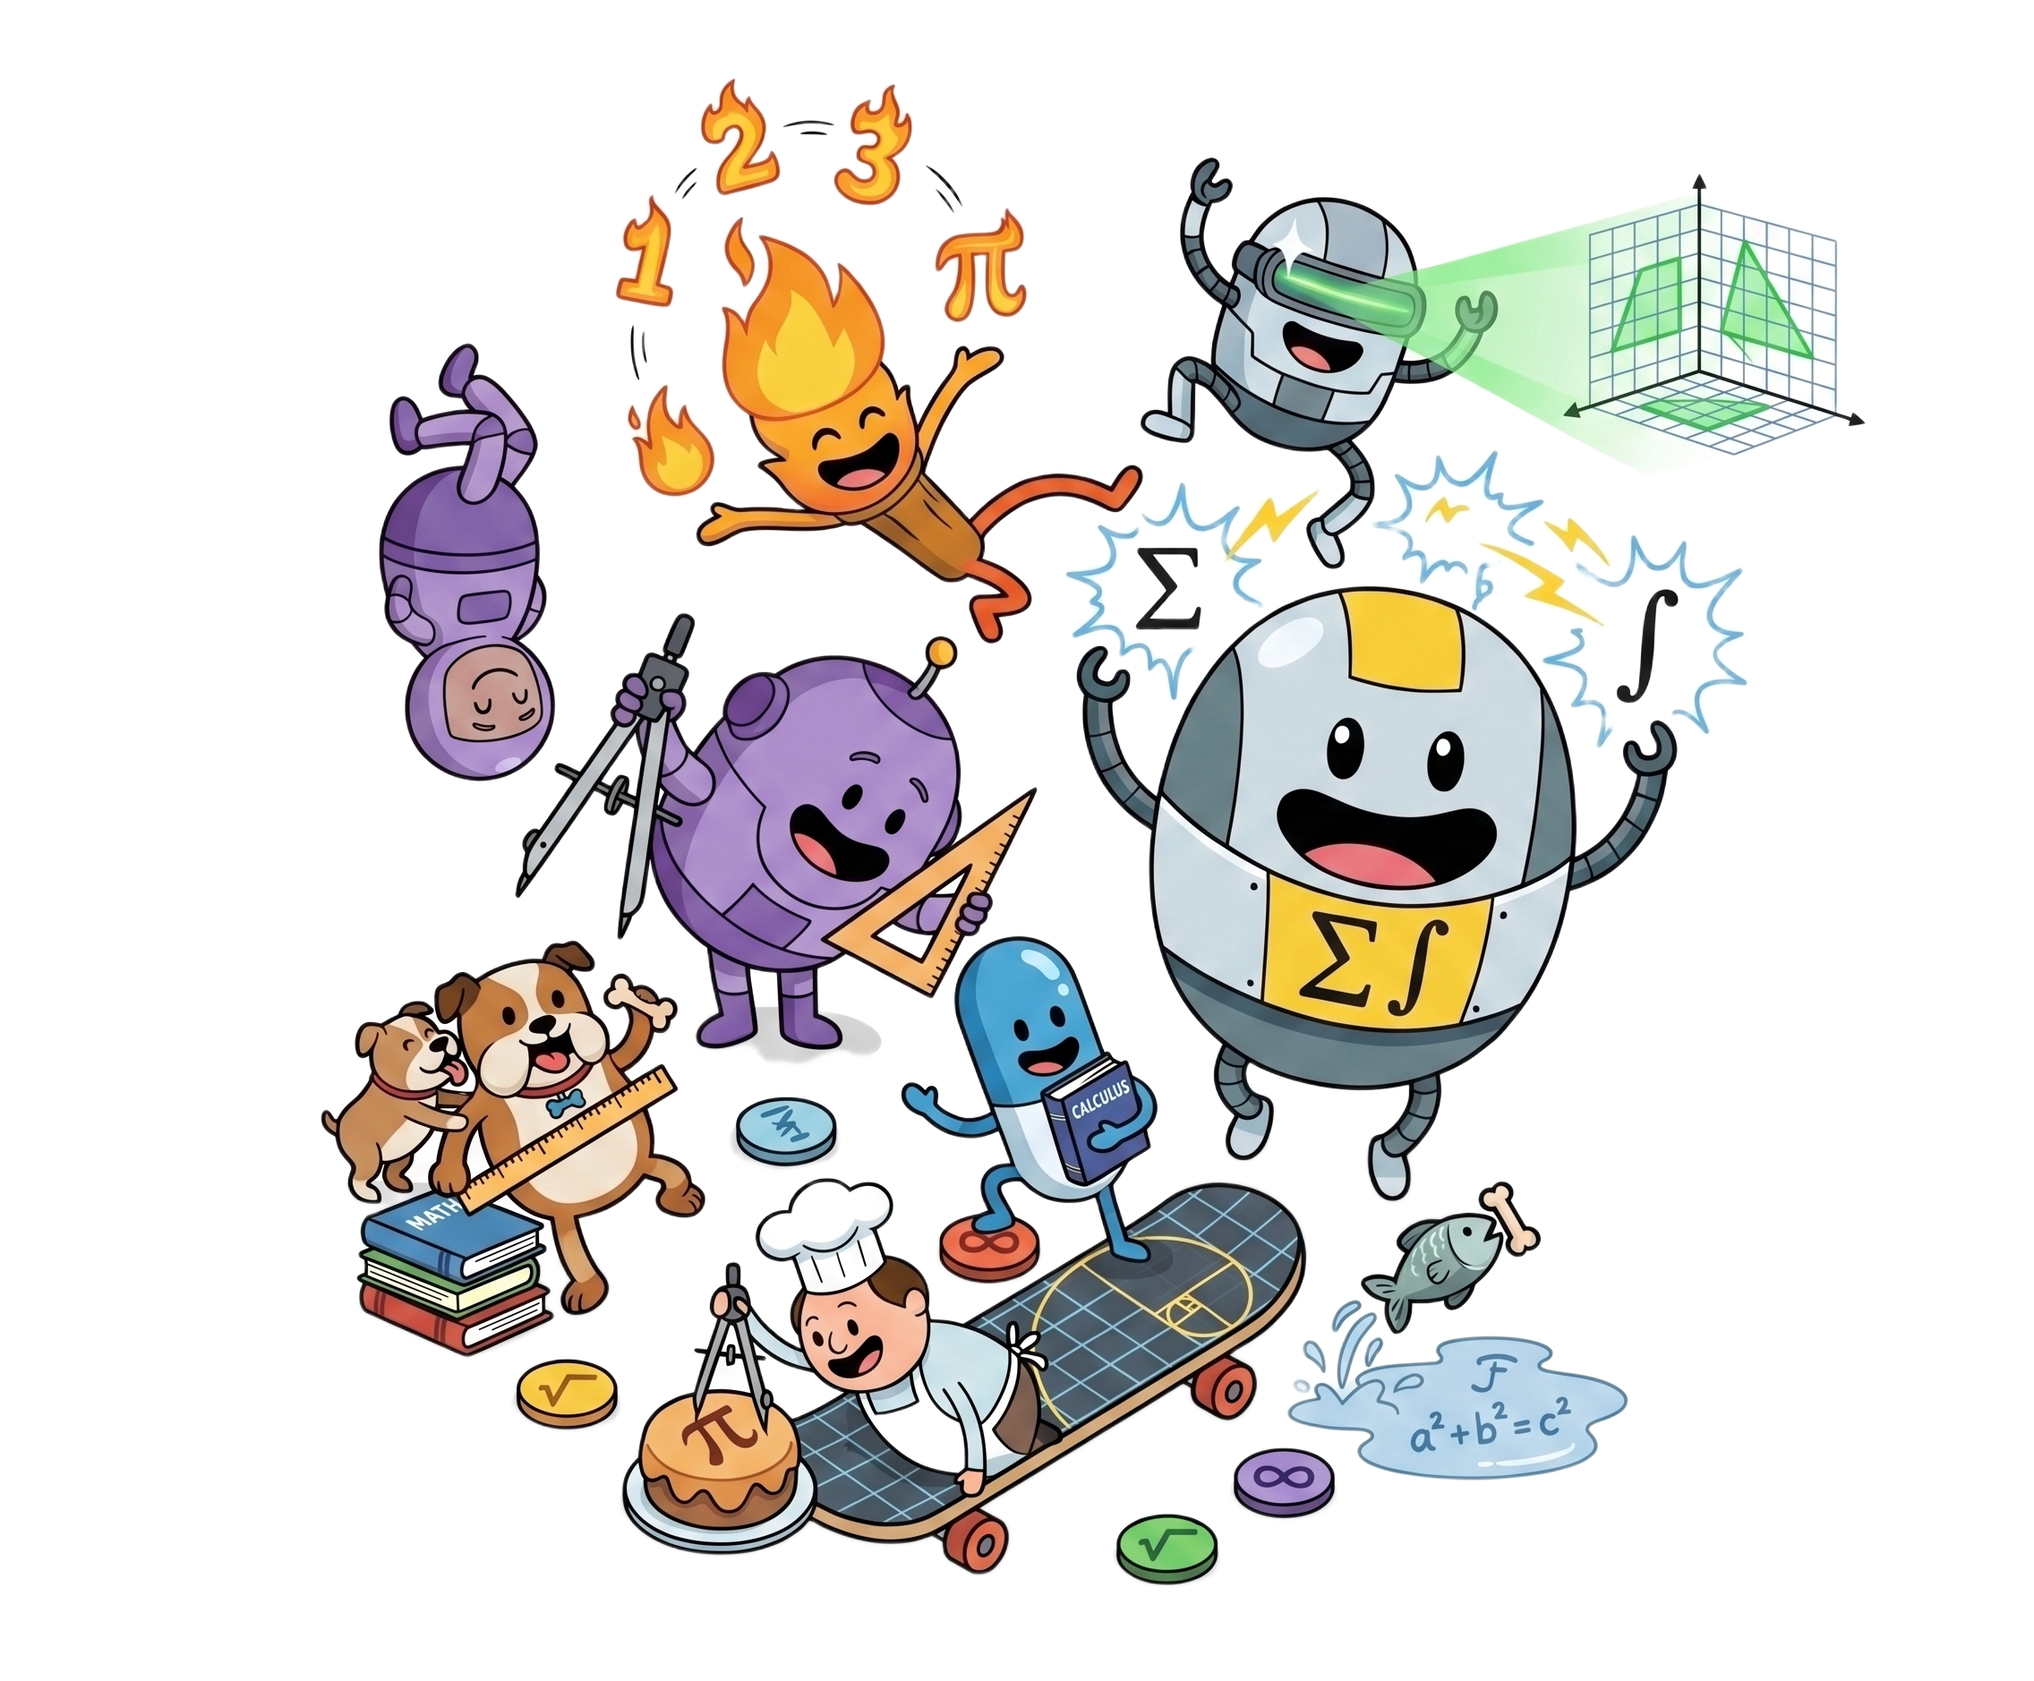
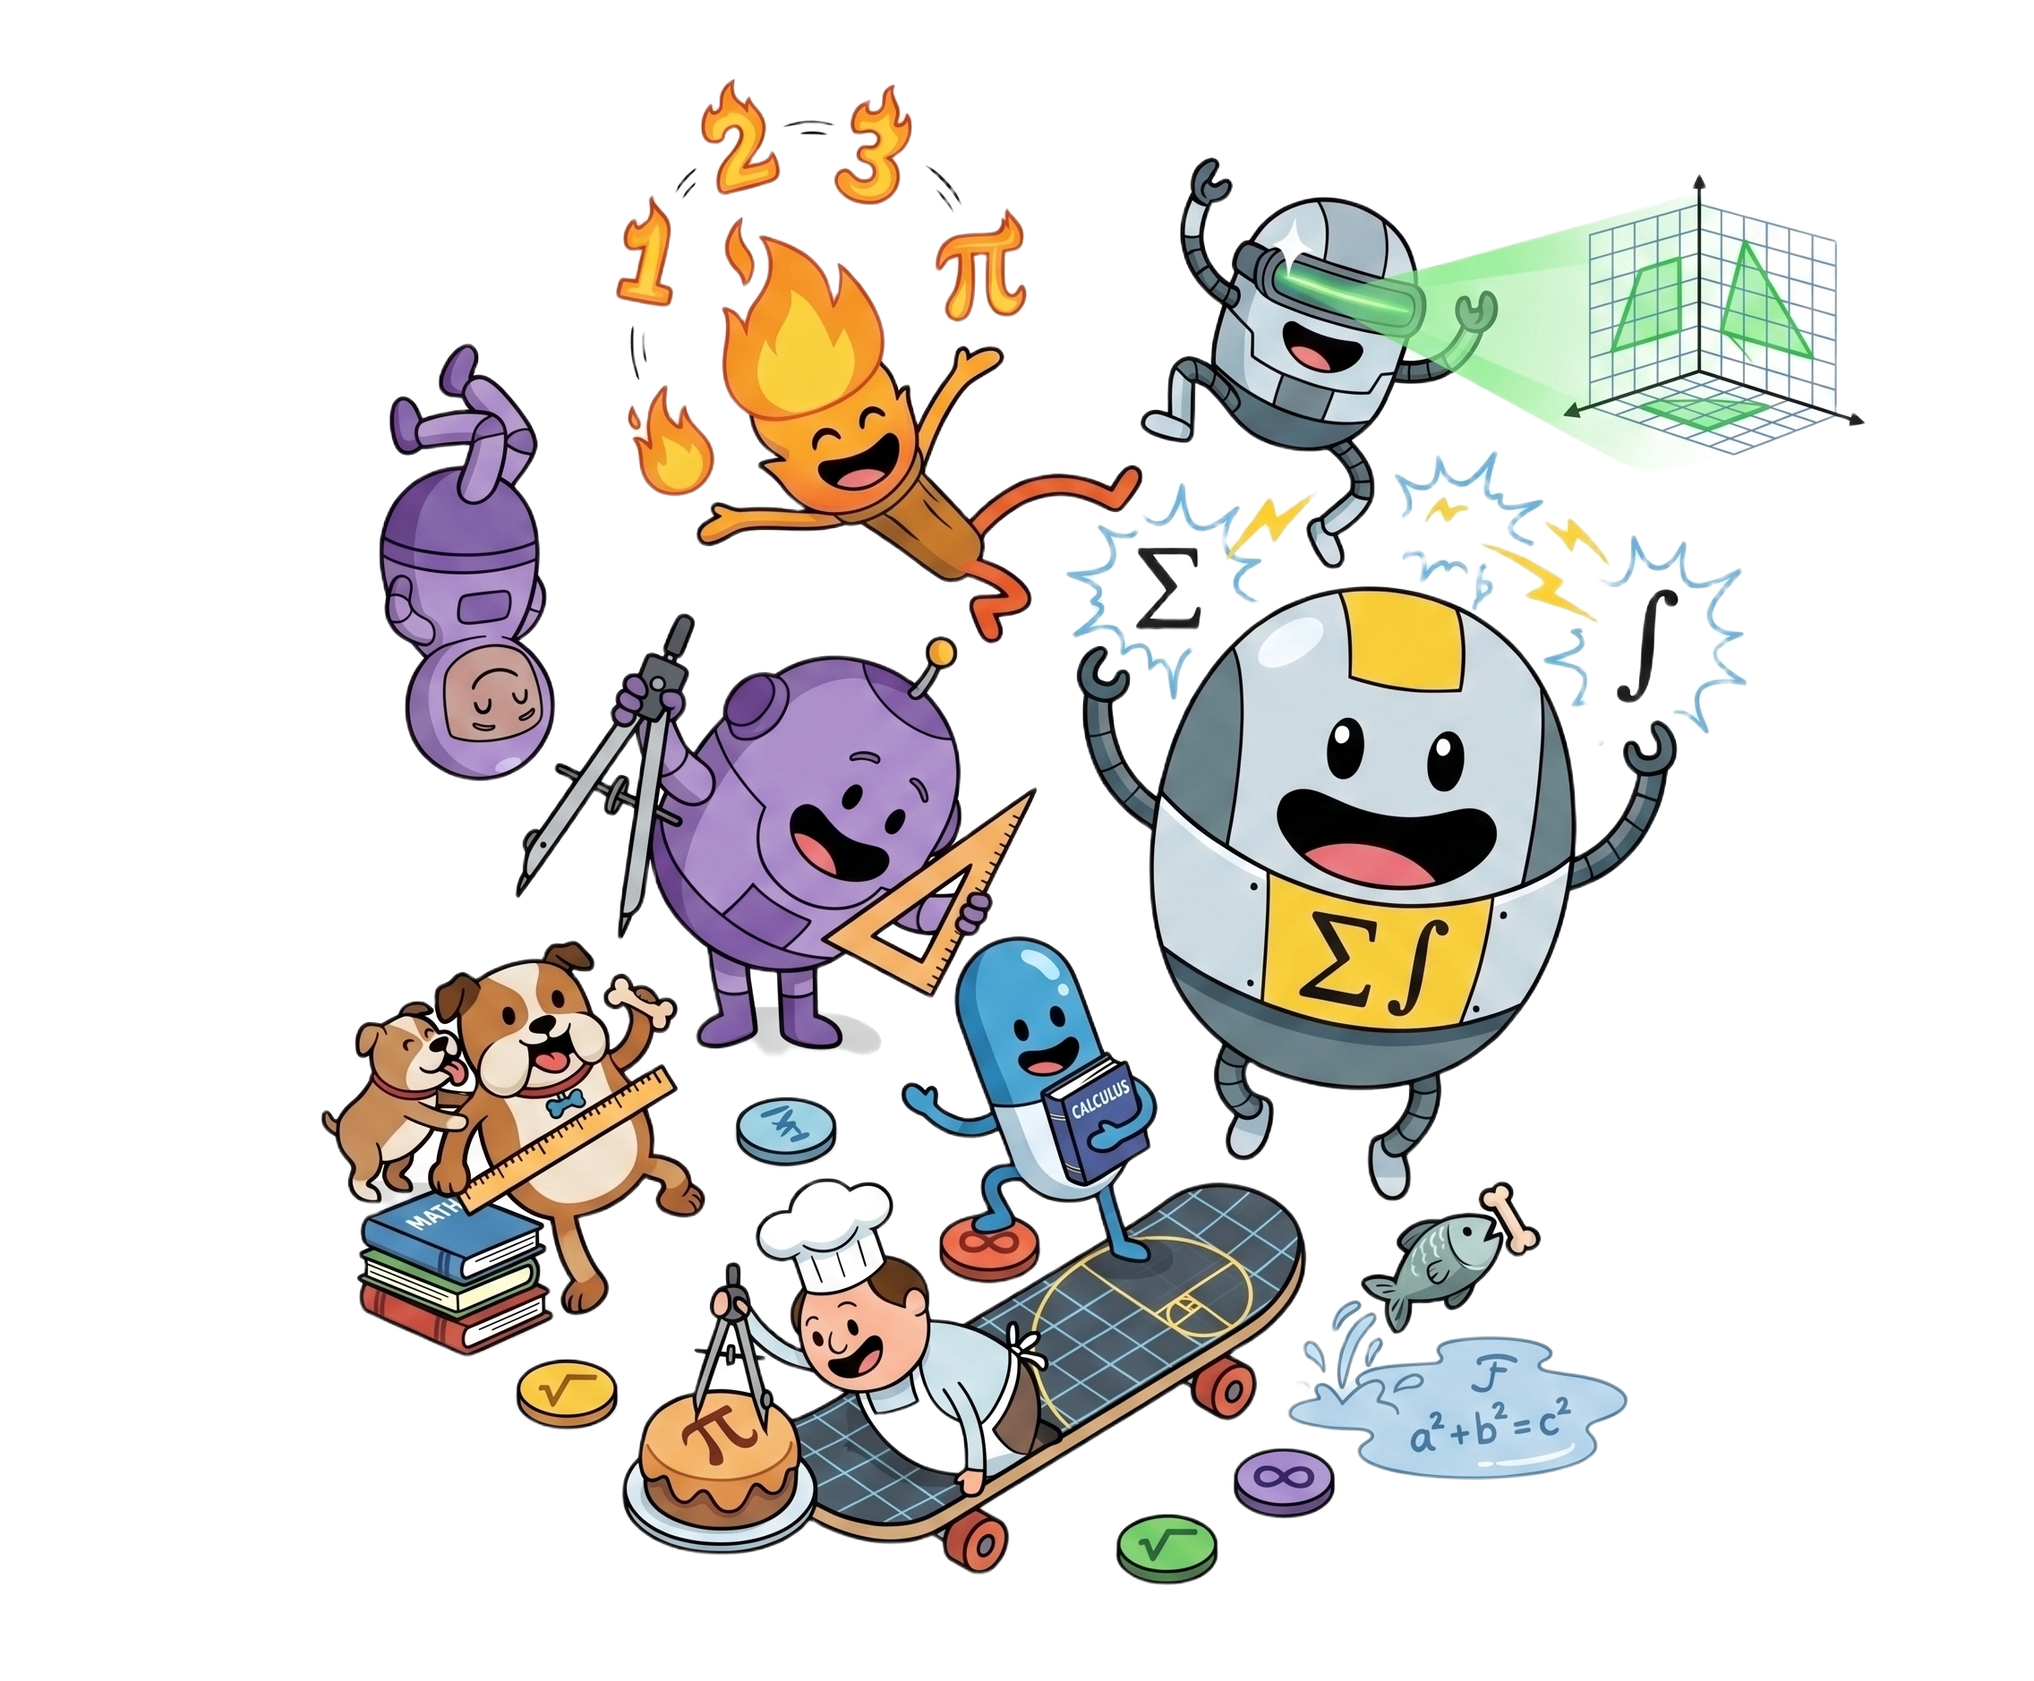
FIXED GSAP

Changed region(s): [[0.6875, 0.3088, 0.7188, 0.3397], [0.375, 0.6177, 0.4062, 0.6486]]

diff --git a/src/app/page.tsx b/src/app/page.tsx
@@ -107,25 +107,21 @@ export default function Home() {
       delay: 0.6
     });
 
-    // Continuous floating animation for shapes
-    gsap.to('.green-triangle', {
-      y: '-=15',
-      rotation: 15,
-      yoyo: true,
-      repeat: -1,
-      duration: 2.5,
-      ease: 'sine.inOut'
+    // Stacking features showcase
+    const featureRows = gsap.utils.toArray('.feature-row');
+    featureRows.forEach((row: any, i) => {
+      if (i < featureRows.length - 1) {
+        ScrollTrigger.create({
+          trigger: row,
+          start: "top 15%",
+          endTrigger: featureRows[featureRows.length - 1] as Element,
+          end: "top 15%",
+          pin: true,
+          pinSpacing: false,
+        });
+      }
     });
-    
-    gsap.to('.squiggly-arrow', {
-      y: '+=10',
-      rotation: -5,
-      yoyo: true,
-      repeat: -1,
-      duration: 2,
-      ease: 'sine.inOut'
-    });
-    
+
     gsap.fromTo('.marquee-content', 
       { x: '0%' },
       {
@@ -360,43 +356,14 @@ export default function Home() {
               </section>
               
               <section className="right-section">
-                {/* SVG Decorations */}
-                <div className="decoration squiggly-arrow">
-                  <svg width="80" height="90" viewBox="0 0 80 90" fill="none" stroke="#111" strokeWidth="4" strokeLinecap="round" strokeLinejoin="round">
-                    <path d="M50 10 C 20 -10, -10 30, 30 40 C 70 50, 70 80, 40 80 C 30 80, 20 70, 20 70" />
-                    <path d="M10 60 L 20 70 L 35 60" />
-                  </svg>
-                </div>
-                <div className="decoration green-triangle">
-                  <svg width="40" height="50" viewBox="0 0 40 50">
-                    <polygon points="0,0 40,25 0,50" fill="#7bf358" stroke="#000" strokeWidth="2" strokeLinejoin="round"/>
-                  </svg>
-                </div>
-                <div className="decoration wavy-lines">
-                  <svg width="70" height="40" viewBox="0 0 70 40" fill="none" stroke="#111" strokeWidth="3" strokeLinecap="round" strokeLinejoin="round">
-                    <path d="M 5 5 Q 12.5 0, 20 5 T 35 5 T 50 5 T 65 5" />
-                    <path d="M 5 15 Q 12.5 10, 20 15 T 35 15 T 50 15 T 65 15" />
-                    <path d="M 5 25 Q 12.5 20, 20 25 T 35 25 T 50 25 T 65 25" />
-                    <path d="M 5 35 Q 12.5 30, 20 35 T 35 35 T 50 35 T 65 35" />
-                  </svg>
-                </div>
-                <div className="decoration pink-semi-circle">
-                  <svg width="40" height="40" viewBox="0 0 40 40">
-                    <path d="M 10 10 A 15 15 0 1 0 30 30" fill="none" stroke="#ff6b6b" strokeWidth="7" strokeLinecap="round"/>
-                  </svg>
-                </div>
-                <div className="decoration blue-quarter-circle">
-                  <svg width="60" height="60" viewBox="0 0 60 60">
-                    <path d="M 0 60 A 60 60 0 0 1 60 0 L 60 60 Z" fill="#00d0ff" stroke="#000" strokeWidth="4" strokeLinejoin="round"/>
-                  </svg>
-                </div>
-                <img src="done.png" alt="done" style={{ position: 'absolute', zIndex: 2, width: '170px', top: '3%', right: '15%' }} />
+                <img src="/assets/done.png" alt="done" style={{ position: 'absolute', zIndex: 2, width: '1000px', top: '3%', right: '-3%' }} />
+
               </section>
             </section>
 
             {/* FEATURES SHOWCASE SECTION */}
             <section className="features-showcase">
-              <div className="feature-row">
+              <div className="feature-row" style={{ backgroundColor: '#fff', position: 'relative', zIndex: 1, padding: '2rem 0' }}>
                 <div className="feature-text">
                   <h2 style={{ color: '#000000', fontSize: '48px' }}>Belajar Jadi Seru Dengan Teman</h2>
                   <p>Belajar Math404 bersama teman jadi lebih seru dan menyenangkan! Jelajahi berbagai materi matematika, uji kemampuan lewat kuis, dan hadapi tantangan sehari-hari.</p>
@@ -406,7 +373,7 @@ export default function Home() {
                 </div>
               </div>
 
-              <div className="feature-row reverse">
+              <div className="feature-row reverse" style={{ backgroundColor: '#fff', position: 'relative', zIndex: 2, padding: '2rem 0' }}>
                 <div className="feature-text">
                   <h2 style={{ color: '#000000', fontSize: '48px' }}>Materi Lengkap</h2>
                   <p>Pelajari matematika secara lengkap dan terstruktur, mulai dari konsep dasar hingga materi yang lebih menantang. Temukan penjelasan yang mudah dipahami, contoh soal, serta latihan untuk membantu meningkatkan kemampuanmu.</p>
@@ -416,7 +383,7 @@ export default function Home() {
                 </div>
               </div>
 
-              <div className="feature-row">
+              <div className="feature-row" style={{ backgroundColor: '#fff', position: 'relative', zIndex: 3, padding: '2rem 0' }}>
                 <div className="feature-text">
                   <h2 style={{ color: '#000000' }}>Tantangan Seru Dan Menyenangkan</h2>
                   <p>Siap menguji kemampuanmu? Hadapi berbagai tantangan matematika, pecahkan soal, raih skor, dan buktikan seberapa jauh kemampuanmu!</p>
@@ -432,30 +399,75 @@ export default function Home() {
               <div className="section-header">
                 <div>
                   <h2 className="section-title">Explore Topics</h2>
-                  <p className="section-subtitle">Master mathematics step-by-step with our comprehensive, curriculum-aligned topic breakdowns.</p>
+                  <p className="section-subtitle">No need to create projects or setups from scratch when we have<br/>50+ templates made for you.</p>
                 </div>
               </div>
+
+              <div className="topics-filter">
+                <button className="filter-btn active">Work</button>
+                <button className="filter-btn">Personal</button>
+                <button className="filter-btn">Education</button>
+                <button className="filter-btn">Management</button>
+                <button className="filter-btn">Marketing &amp; Sales</button>
+                <button className="filter-btn">Customer Support</button>
+              </div>
+
               <div className="topics-grid">
-                <div className="topic-card card-bg-yellow" onClick={() => handleStartSoloWithTopic('kaidah-pencacahan')}>
-                  <div className="topic-icon">🔢</div>
-                  <h3>Algebra</h3>
-                  <p>Master equations, inequalities, and functions to build a strong mathematical foundation.</p>
+                <div className="topic-card" onClick={() => handleStartSoloWithTopic('kaidah-pencacahan')}>
+                  <div className="topic-card-top card-bg-yellow">
+                    <div className="topic-icon">🔢</div>
+                  </div>
+                  <div className="topic-card-bottom">
+                    <h3>Algebra</h3>
+                    <p>Master equations, inequalities, and functions to build a strong mathematical foundation.</p>
+                    <div className="topic-card-footer">
+                      <span>📄 List</span>
+                    </div>
+                  </div>
                 </div>
-                <div className="topic-card card-bg-pink" onClick={() => handleStartSoloWithTopic('dimensi-tiga')}>
-                  <div className="topic-icon">📐</div>
-                  <h3>Geometry</h3>
-                  <p>Explore shapes, sizes, properties of space, and visual reasoning.</p>
+
+                <div className="topic-card" onClick={() => handleStartSoloWithTopic('dimensi-tiga')}>
+                  <div className="topic-card-top card-bg-pink">
+                    <div className="topic-icon">📐</div>
+                  </div>
+                  <div className="topic-card-bottom">
+                    <h3>Geometry</h3>
+                    <p>Explore shapes, sizes, properties of space, and visual reasoning.</p>
+                    <div className="topic-card-footer">
+                      <span>📄 List</span>
+                    </div>
+                  </div>
                 </div>
-                <div className="topic-card card-bg-blue" onClick={() => handleStartSoloWithTopic('kalkulus-lanjut')}>
-                  <div className="topic-icon">📈</div>
-                  <h3>Calculus</h3>
-                  <p>Understand limits, derivatives, integrals, and the mathematics of continuous change.</p>
+
+                <div className="topic-card" onClick={() => handleStartSoloWithTopic('kalkulus-lanjut')}>
+                  <div className="topic-card-top card-bg-blue">
+                    <div className="topic-icon">📈</div>
+                  </div>
+                  <div className="topic-card-bottom">
+                    <h3>Calculus</h3>
+                    <p>Understand limits, derivatives, integrals, and the mathematics of continuous change.</p>
+                    <div className="topic-card-footer">
+                      <span>📄 List</span>
+                    </div>
+                  </div>
                 </div>
-                <div className="topic-card card-bg-green" onClick={() => handleStartSoloWithTopic('statistika')}>
-                  <div className="topic-icon">📊</div>
-                  <h3>Statistics</h3>
-                  <p>Learn to collect, analyze, interpret, and present data effectively.</p>
+
+                <div className="topic-card" onClick={() => handleStartSoloWithTopic('statistika')}>
+                  <div className="topic-card-top card-bg-green">
+                    <div className="topic-icon">📊</div>
+                  </div>
+                  <div className="topic-card-bottom">
+                    <h3>Statistics</h3>
+                    <p>Learn to collect, analyze, interpret, and present data effectively.</p>
+                    <div className="topic-card-footer">
+                      <span>📄 List</span>
+                    </div>
+                  </div>
                 </div>
+              </div>
+
+              <div className="see-more-container">
+                <a href="#" className="see-more-link">See more topics &gt;</a>
               </div>
             </section>
 

diff --git a/src/app/globals.css b/src/app/globals.css
@@ -495,10 +495,13 @@ body {
 }
 
 /* Topics Section */
+/* Topics Section */
 .topics-section {
     padding: 6rem 10%;
     background-color: #fff;
     border-bottom: 2px solid #000;
+    position: relative;
+    z-index: 10;
 }
 
 .section-header {
@@ -507,7 +510,7 @@ body {
     justify-content: center;
     align-items: center;
     text-align: center;
-    margin-bottom: 4rem;
+    margin-bottom: 2rem;
 }
 
 .section-title {
@@ -521,8 +524,41 @@ body {
     font-size: 1.2rem;
     font-weight: 600;
     color: #444;
-    max-width: 500px;
+    max-width: 600px;
     margin: 1rem auto 0;
+}
+
+/* Filter pills */
+.topics-filter {
+    display: flex;
+    justify-content: center;
+    gap: 1rem;
+    margin-bottom: 3rem;
+    flex-wrap: wrap;
+}
+
+.filter-btn {
+    padding: 0.8rem 1.8rem;
+    border: 2px solid #000;
+    border-radius: 50px;
+    background-color: #fff;
+    font-weight: 700;
+    font-size: 1rem;
+    cursor: pointer;
+    box-shadow: 4px 4px 0px 0px #000;
+    transition: transform 0.1s, box-shadow 0.1s, background-color 0.2s;
+    font-family: inherit;
+    color: #333;
+}
+
+.filter-btn:active {
+    transform: translate(3px, 3px);
+    box-shadow: 1px 1px 0px 0px #000;
+}
+
+.filter-btn.active {
+    background-color: #82fed6;
+    color: #000;
 }
 
 .btn-view-all {
@@ -546,18 +582,21 @@ body {
 
 .topics-grid {
     display: grid;
-    grid-template-columns: repeat(auto-fit, minmax(300px, 1fr));
-    gap: 3rem;
+    grid-template-columns: repeat(auto-fit, minmax(260px, 1fr));
+    gap: 2rem;
 }
 
 .topic-card {
     border: 3px solid #000;
-    border-radius: 8px;
-    padding: 2rem;
+    border-radius: 12px;
+    padding: 0;
     box-shadow: 8px 8px 0px 0px #000;
     background-color: #fff;
     transition: transform 0.2s, box-shadow 0.2s;
     cursor: pointer;
+    display: flex;
+    flex-direction: column;
+    overflow: hidden;
 }
 
 .topic-card:hover {
@@ -565,28 +604,71 @@ body {
     box-shadow: 12px 12px 0px 0px #000;
 }
 
-.topic-icon {
-    width: 60px;
-    height: 60px;
-    border-radius: 50%;
+.topic-card-top {
+    height: 180px;
     display: flex;
     align-items: center;
     justify-content: center;
-    border: 2px solid #000;
-    margin-bottom: 1.5rem;
-    font-size: 1.5rem;
+    border-bottom: 3px solid #000;
+}
+
+.topic-icon {
+    font-size: 5rem;
+}
+
+.topic-card-bottom {
+    padding: 1.5rem;
+    display: flex;
+    flex-direction: column;
+    flex: 1;
 }
 
 .topic-card h3 {
-    font-size: 1.5rem;
+    font-size: 1.35rem;
     font-weight: 800;
-    margin-bottom: 0.5rem;
+    margin-bottom: 0.8rem;
+    color: #111;
 }
 
 .topic-card p {
-    font-size: 1.05rem;
-    color: #444;
+    font-size: 0.95rem;
+    color: #555;
     font-weight: 500;
+    line-height: 1.5;
+    margin-bottom: 1.5rem;
+    flex: 1;
+}
+
+.topic-card-footer {
+    display: flex;
+    align-items: center;
+    font-size: 0.95rem;
+    color: #666;
+    font-weight: 600;
+}
+
+.topic-card-footer span {
+    display: flex;
+    align-items: center;
+    gap: 0.5rem;
+}
+
+.see-more-container {
+    text-align: center;
+    margin-top: 3.5rem;
+}
+
+.see-more-link {
+    color: #0077b6;
+    font-weight: 700;
+    font-size: 1.1rem;
+    text-decoration: none;
+    transition: opacity 0.2s;
+}
+
+.see-more-link:hover {
+    opacity: 0.7;
+    text-decoration: underline;
 }
 
 .card-bg-yellow { background-color: #ffdc00; }
